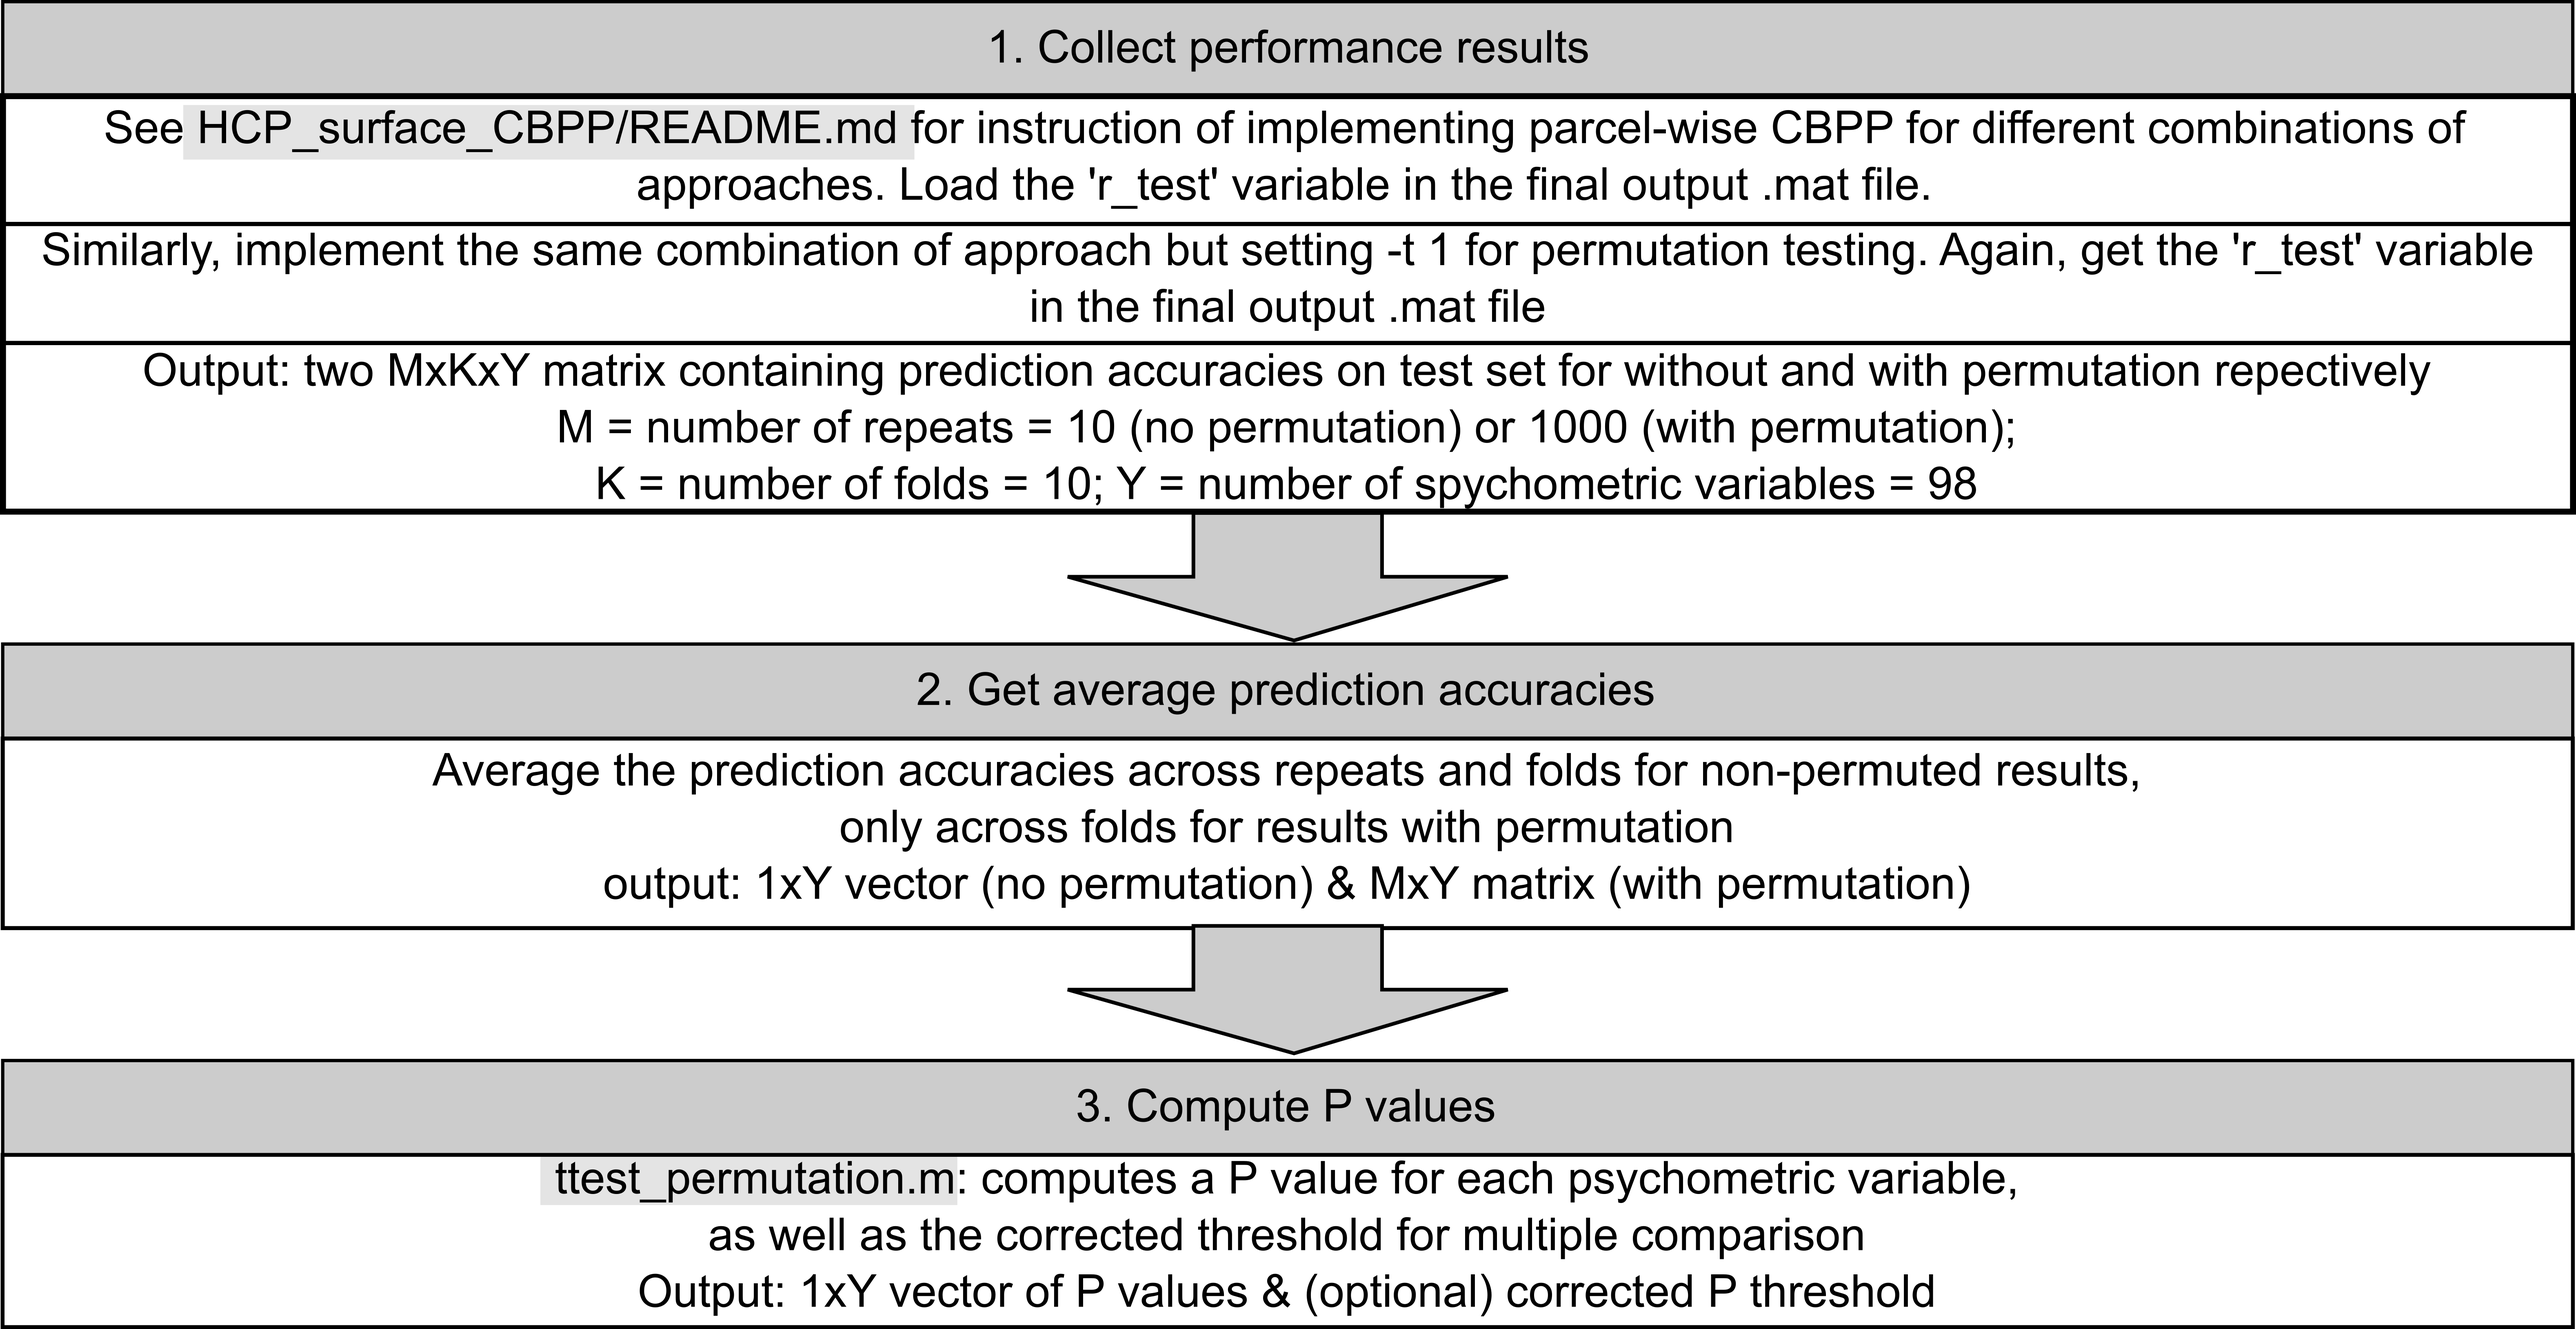
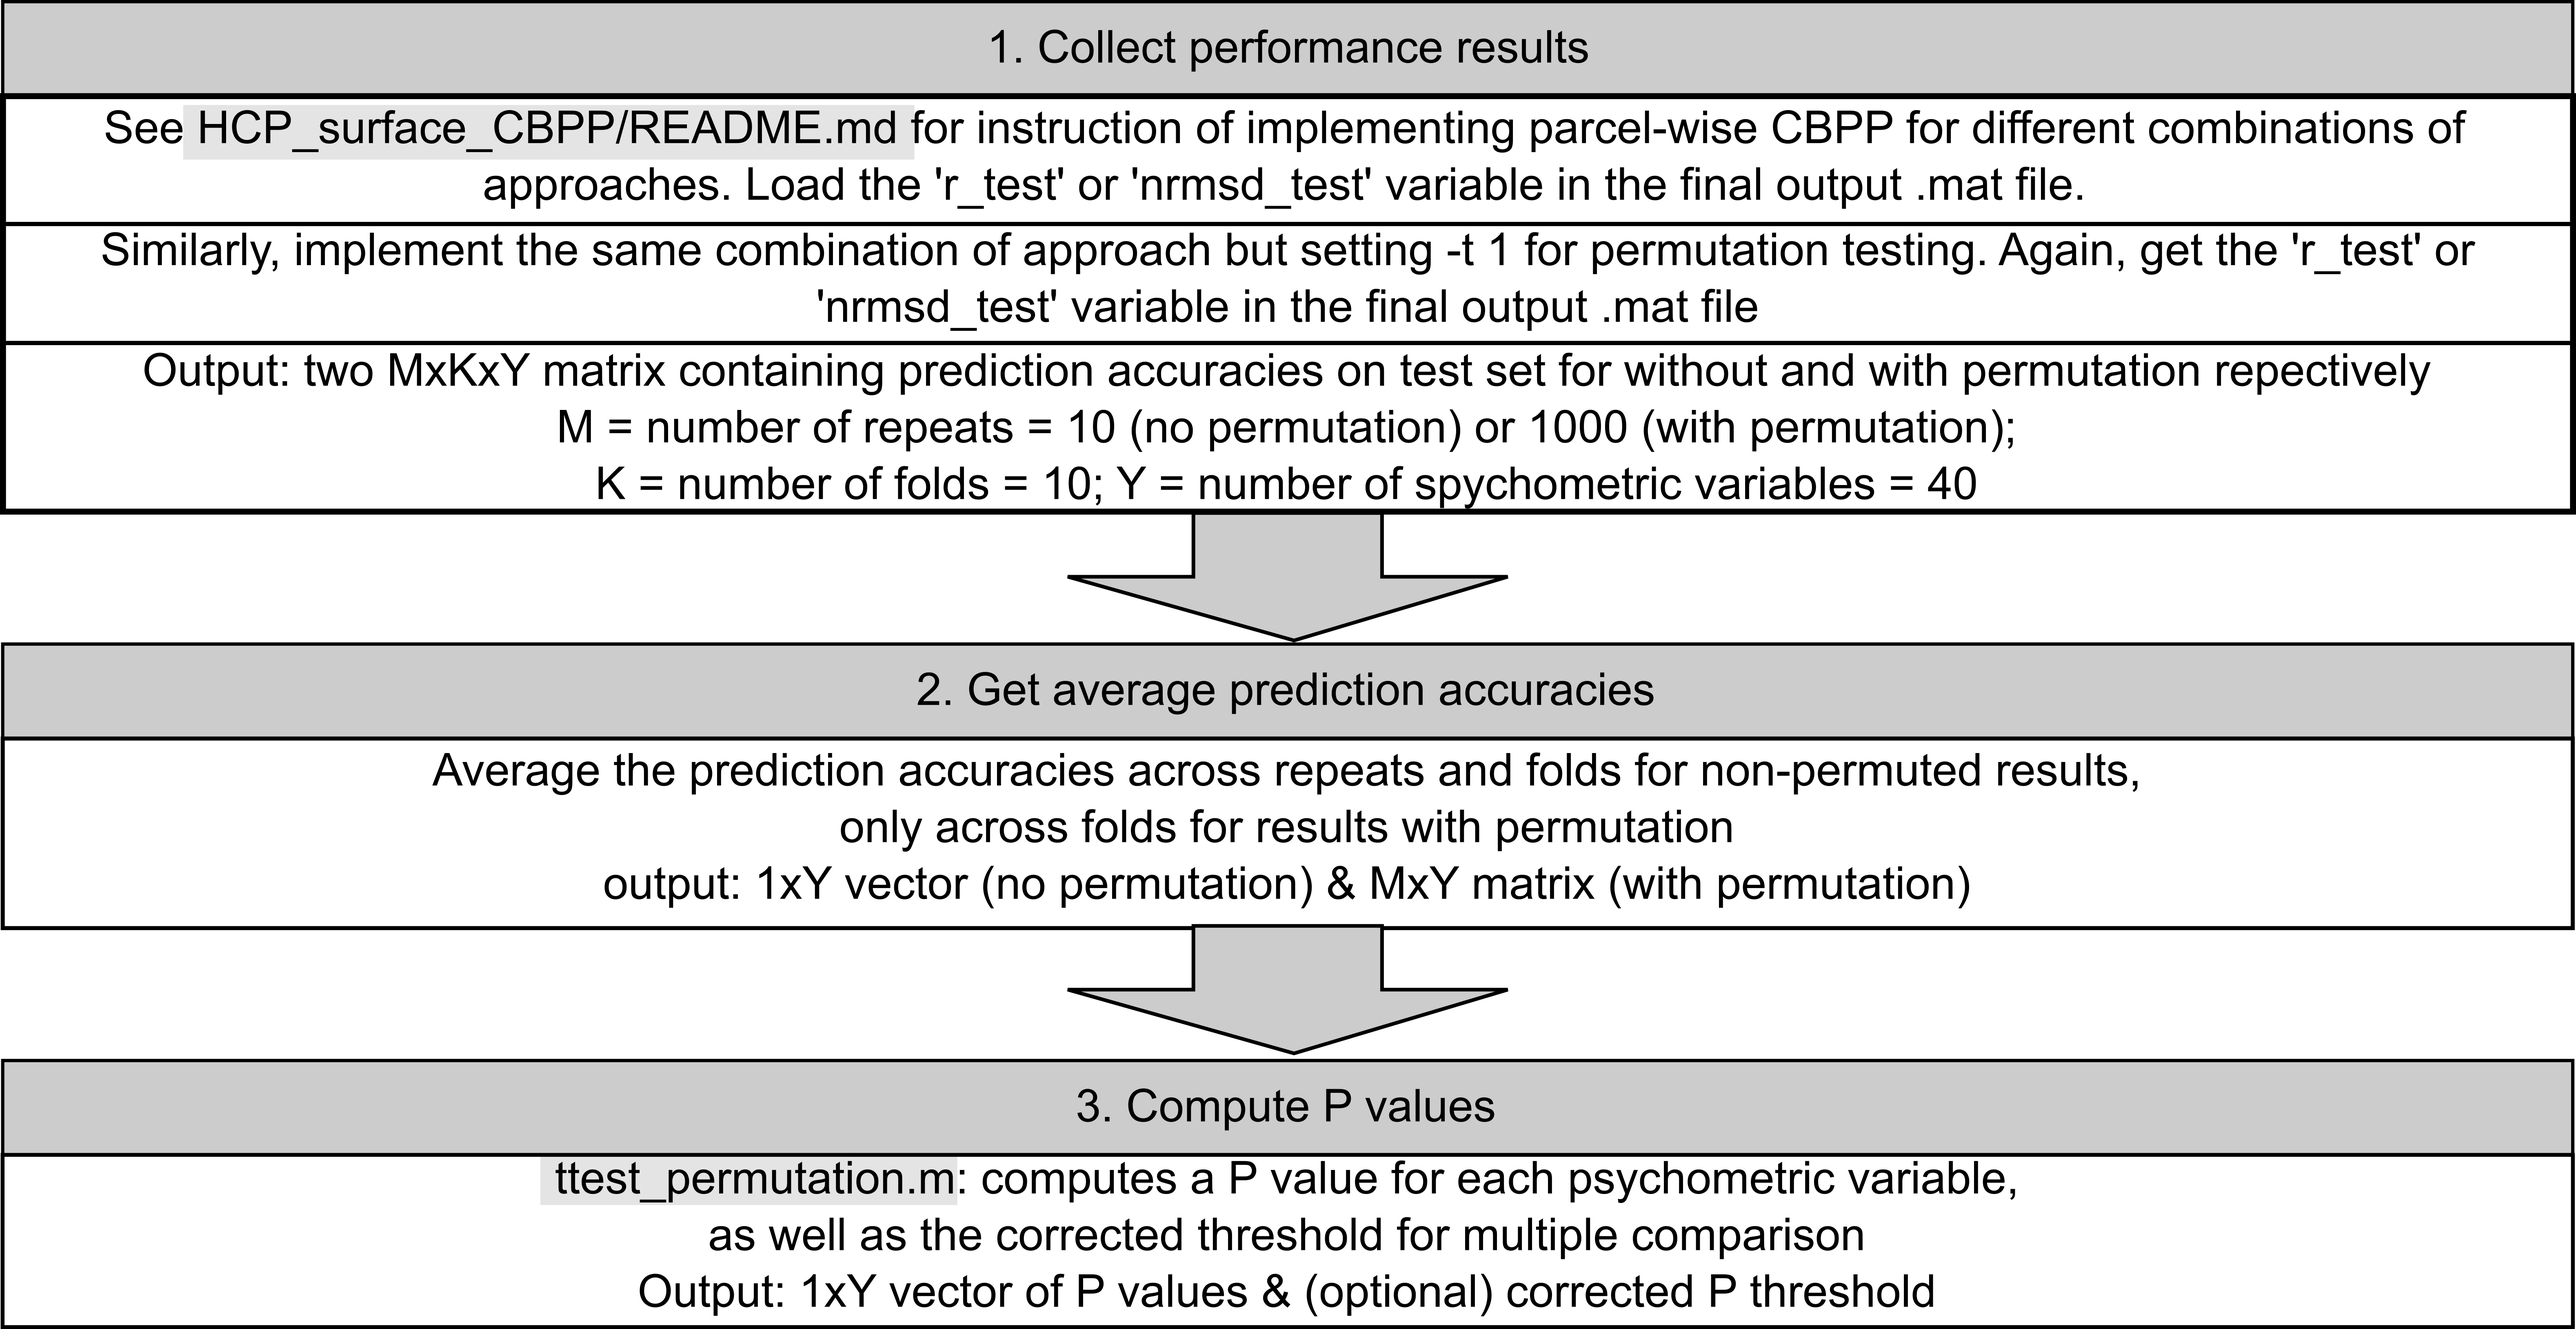
Updated evaluation scripts for combined scores and nRMSD

Changed region(s): [[0.0312, 0.124, 0.9987, 0.248], [0.749, 0.341, 0.7803, 0.372]]

diff --git a/bin/evaluation_scripts/compare_pwCBPP_denoising.m b/bin/evaluation_scripts/compare_pwCBPP_denoising.m
@@ -1,5 +1,5 @@
-function [levene_p, parcel_p, var_p] = compare_pwCBPP_denoising(in_dir, n_parc, prefix1, prefix2, levene_sel)
-% function [levene_p, parcel_p, var_p] = compare_pwCBPP_denoising(in_dir, n_parc, prefix1, prefix2, levene_sel)
+function [levene_p, parcel_p, var_p] = compare_pwCBPP_denoising(in_dir, n_parc, prefix1, prefix2, eval_type)
+% function [levene_p, parcel_p, var_p] = compare_pwCBPP_denoising(in_dir, n_parc, prefix1, prefix2, eval_type)
 %
 % This function compares parcel-wise CBPP performance using different combinations of approaches (we
 % only compared between minimal processing and FIX for preprocessing in the paper, but other
@@ -16,8 +16,6 @@ function [levene_p, parcel_p, var_p] = compare_pwCBPP_denoising(in_dir, n_parc, 
 % distribution is computed for the two combinations of approaches separately. A paired t-test is 
 % again performed.
 %
-% Note that the performance results should be first combined using combine_CBPP_results.m
-%
 % Inputs:
 %       - in_dir    :
 %                    Absolute path to input directory containing the performance results
@@ -25,13 +23,11 @@ function [levene_p, parcel_p, var_p] = compare_pwCBPP_denoising(in_dir, n_parc, 
 %                    Total number of parcels, i.e. parcellation granularity used
 %       - prefix1   :
 %                    Combined results file prefix for the 1st combination of approaches. For example, the 
-%                    performance results for parcel 1 from should be named: pwCBPP_prefix1_parcel1.csv
+%                    performance results for parcel 1 from should be named: pwCBPP_prefix1_parcel1.mat
 %       - prefix2   :
 %                    Combined results file prefix for the 2nd combination of approaches.
-%       - levene_sel:
-%                    (Optional) a vector containing indices of psychometric variables to perform 
-%                    Levene's test on. By default, all 40 variables are selected.
-%                    default: 1:40
+%       - eval_type :
+%                    Type of evaluation measure to use. Choose from 'r_test' and 'nrmsd_test'
 %
 % Output:
 %        - levene_p:
@@ -43,23 +39,12 @@ function [levene_p, parcel_p, var_p] = compare_pwCBPP_denoising(in_dir, n_parc, 
 %                   The P value from the paired t-test for Euclidean distances between psychometric
 %                   variables' prediction accuracy distributions
 %
-% Example:
-% compare_pwCBPP_denoising('input_dir', 300, 'SVR_standard_HCP_fix_parc300_Pearson', 
-% 'SVR_standard_HCP_minimal_parc300_Pearson')
-% This compares parcel-wise CBPP performance for SVR-Pearson combinations at 300-parcel granularity,
-% using minimally processed data and FIX data respectively.
-%
-% Jianxiao Wu, last edited on 30-Sept-2019
+% Jianxiao Wu, last edited on 09-Apr-2020
 
 % usage
-if nargin < 4
-    disp('[levene_p, parcel_p, var_p] = compare_pwCBPP_denoising(in_dir, n_parc, prefix1, prefix2, [levene_sel])');
+if nargin ~= 5
+    disp('[levene_p, parcel_p, var_p] = compare_pwCBPP_denoising(in_dir, n_parc, prefix1, prefix2, eval_type)');
     return
-end
-
-% default parameter
-if nargin < 5
-    levene_sel = 1:40;
 end
 
 % add path to external package
@@ -67,36 +52,36 @@ dir_bin = fileparts(fileparts(mfilename('fullpath')));
 addpath(fullfile(dir_bin, 'external_packages'));
 
 % set up parameters
-sample = csvread(fullfile(in_dir, ['pwCBPP_' prefix1 '_parcel1.csv']), 0, 2);
+sample = load(fullfile(in_dir, ['pwCBPP_' prefix1 '_parcel1.mat']), eval_type);
+sample = squeeze(mean(mean(sample.(eval_type))));
 yd = length(sample);
 
 %%% load performance results
 % get results for combination of approaches 1
 perf1 = zeros(yd, n_parc);
 for parc_curr = 1:n_parc
-    input_curr = fullfile(in_dir, ['pwCBPP_' prefix1 '_parcel' num2str(parc_curr) '.csv']);
-    perf1(:, parc_curr) = csvread(input_curr, 0, 2);
+    input_curr = load(fullfile(in_dir, ['pwCBPP_' prefix1 '_parcel' num2str(parc_curr) '.mat'], eval_type));
+    perf1(:, parc_curr) = squeeze(mean(mean(input_curr.(eval_type))));
 end
 % get results for combination of approaches 2
 perf2 = zeros(yd, n_parc);
 for parc_curr = 1:n_parc
-    input_curr = fullfile(in_dir, ['pwCBPP_' prefix2 '_parcel' num2str(parc_curr) '.csv']);
-    perf2(:, parc_curr) = csvread(input_curr, 0, 2);
+    input_curr = load(fullfile(in_dir, ['pwCBPP_' prefix2 '_parcel' num2str(parc_curr) '.mat']), eval_type);
+    perf2(:, parc_curr) = squeeze(mean(mean(input_curr.(eval_type))));
 end
 
 %%% 1. Levene's test
 fprintf("1. Levene's test between prediction accuracy distributions: \n");
 % perform Levene's test for selected psychometric variables
-levene_p = zeros(length(levene_sel), 1);
-for y_ind = 1:length(levene_sel)
-    y_curr = levene_sel(y_ind);
+levene_p = zeros(yd, 1);
+for y_curr = 1:yd
     x = [perf1(y_curr, :), perf2(y_curr, :); ones(1, n_parc), 2*ones(1, n_parc)]';
-    levene_p(y_ind) = levenetest(x);
+    levene_p(y_curr) = levenetest(x);
 
     % print results if significant (alpha = 0.05)
-    if levene_p(y_ind) < 0.05
+    if levene_p(y_curr) < 0.05
         fprintf("Levene's test significant for psychometric variable No.%i with p = %.4f.", ...
-                y_curr, levene_p(y_ind));
+                y_curr, levene_p(y_curr));
         if var(perf1(y_curr, :)) > var(perf2(y_curr, :))
             fprintf('Variance of the 1st combination of approaches is larger. \n');
         else
@@ -112,10 +97,12 @@ end
 %%% 2. Distance between psychometric profiles
 fprintf('2. Paired t-test for distributions of Euclidean distances between psychometric profiles \n')
 % compute Euclidean distance between parcel's profiles
+index = 1;
 for i = 1:n_parc
     for j = (i+1):n_parc
-        dist_parcel1(i, j) = sqrt(sum((perf1(:, i)-perf1(:, j)).^2));
-        dist_parcel2(i, j) = sqrt(sum((perf2(:, i)-perf2(:, j)).^2));
+        dist_parcel1(index) = sqrt(sum((perf1(:, i)-perf1(:, j)).^2));
+        dist_parcel2(index) = sqrt(sum((perf2(:, i)-perf2(:, j)).^2));
+        index = index + 1;
     end
 end
 % perform paired t-test
@@ -135,10 +122,12 @@ end
 %%% 3. Distance between prediction accuracies distributions
 fprintf('3. Paired t-test for distributions of Euclidean distances between prediction accuracies distributions \n')
 % compute Euclidean distances across psychometric variables
+index = 1
 for i = 1:yd
     for j = (i+1):yd
-        dist_var1(i, j) = sqrt(sum((perf1(i, :)-perf1(j, :)).^2));
-        dist_var2(i, j) = sqrt(sum((perf2(i, :)-perf2(j, :)).^2));
+        dist_var1(index) = sqrt(sum((perf1(i, :)-perf1(j, :)).^2));
+        dist_var2(index) = sqrt(sum((perf2(i, :)-perf2(j, :)).^2));
+        index = index + 1;
     end
 end
 % perform paired t-test

diff --git a/bin/evaluation_scripts/README.md b/bin/evaluation_scripts/README.md
@@ -12,7 +12,7 @@ The script `corrected_resampled_ttest_CV.m` performs the corrected resampled t-t
 
 ### Example
 
-To simply compare the performance of SVR-minimal-Pearson and SVR-FIX+GSR-Pearson combinations of approaches at 300-parcel granularity: 
+To simply compare the correlation-based performance of SVR-minimal-Pearson and SVR-FIX+GSR-Pearson combinations of approaches at 300-parcel granularity: 
 
 1. **Performance for minimal preprocessing:** 
 
@@ -30,11 +30,11 @@ To simply compare the performance of SVR-minimal-Pearson and SVR-FIX+GSR-Pearson
 
 4. **Perform t-test:** `p = corrected_resampled_ttest_CV(perf)`
 
-Check the P-value by printing the matrix element `p(1, 2)`, which should be `1.5740e-04`.
+To compare the nRMSD-based performance instead, replace all `r_test` with `nrmsd_test` in the example.
 
 ## Parcel-wise CBPP evaluation
 
-The parcel-wise CBPP accuracies for a specific parcel on a range of psychometric variables are tested for singificant by comparing to a null distribution, generated by shuffling the psychometric variables for 1000 repeats of 10-fold cross-validation. These accuracies, with insignificant ones set to 0, can be used to generate the parcel's **psychometric profile**. 
+The parcel-wise CBPP accuracies for a specific parcel on a range of psychometric variables are tested for singificance by comparing to a null distribution, generated by shuffling the psychometric variables for 1000 repeats of 10-fold cross-validation. These accuracies, with insignificant ones set to 0, can be used to generate the parcel's **psychometric profile**. 
 
 The script `ttest_permutation.m` computes a P value for each psychometric variable from permutation testing, then corrects the P values for multiple comparison. The procedure is as shown below:
 
@@ -58,6 +58,8 @@ To generate the psychometric profile of parcel 5 from the 300-parcel Schaefer at
 
 3. **Test significance**: `[p, p_thr] = ttest_permutation(test_perf, null_perf)`
 
+To use the nRMSD-based performance instead, replace all `r_test` with `nrmsd_test` in the example.
+
 ## Effect of denoising on parcel-wise CBPP
 
 The script `compare_pwCBPP_denoising.m` can be used to statistically compare the effect of denoising on the distribution of parcel-wise CBPP prediction accuracies 
@@ -71,10 +73,6 @@ To compare the minimal preprocessing and FIX+GSR preprocessing options, using SV
 
 1. **Parcel-wise CBPP prediction:**: follow example 1 and 2 in `HCP_surface_CBPP/README.md` for parcel-wise CBPP, generating in total 600 .mat files in `/path/to/results/dir`
 
-2. **Combine performance results**:
-
-    i) Combine minimal preprocessing results: `for parcel in 1:300; combine_CBPP_results('/path/to/results/dir', ['pwCBPP_SVR_standard_HCP_minimal_parc300_Pearson_parcel' num2str(parcel)], '/path/to/results/dir'); end`
-
-    ii) Combine FIX+GSR preprocessing results: `for parcel in 1:300; combine_CBPP_results('/path/to/results/dir', ['pwCBPP_SVR_standard_HCP_gsr_parc300_Pearson_parcel' num2str(parcel)], '/path/to/results/dir'); end`
-
-3. **Perform comparisons**: `compare_pwCBPP_denoising('/path/to/results/dir', 300, 'SVR_standard_HCP_minimal_parc300_Pearson', 'SVR_standard_HCP_gsr_parc300_Pearson')`
+3. **Perform comparisons**: 
+    i) to compare correlation-based performance: `compare_pwCBPP_denoising('/path/to/results/dir', 300, 'SVR_standard_HCP_minimal_parc300_Pearson', 'SVR_standard_HCP_gsr_parc300_Pearson', 'r_test')`
+    ii) to compare nRMSD-based performance: `compare_pwCBPP_denoising('/path/to/results/dir', 300, 'SVR_standard_HCP_minimal_parc300_Pearson', 'SVR_standard_HCP_gsr_parc300_Pearson', 'nrmsd_test')`
